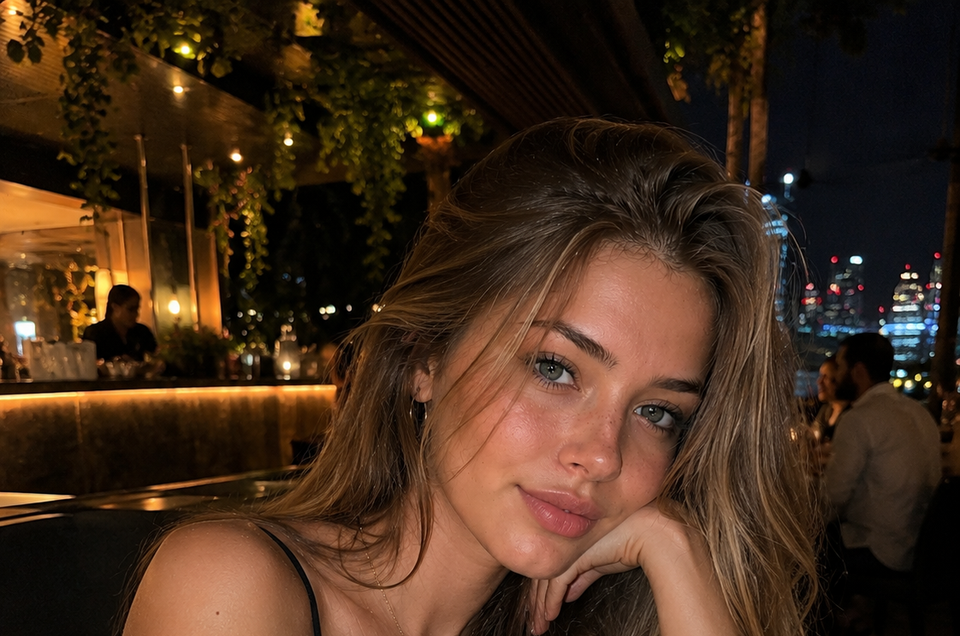
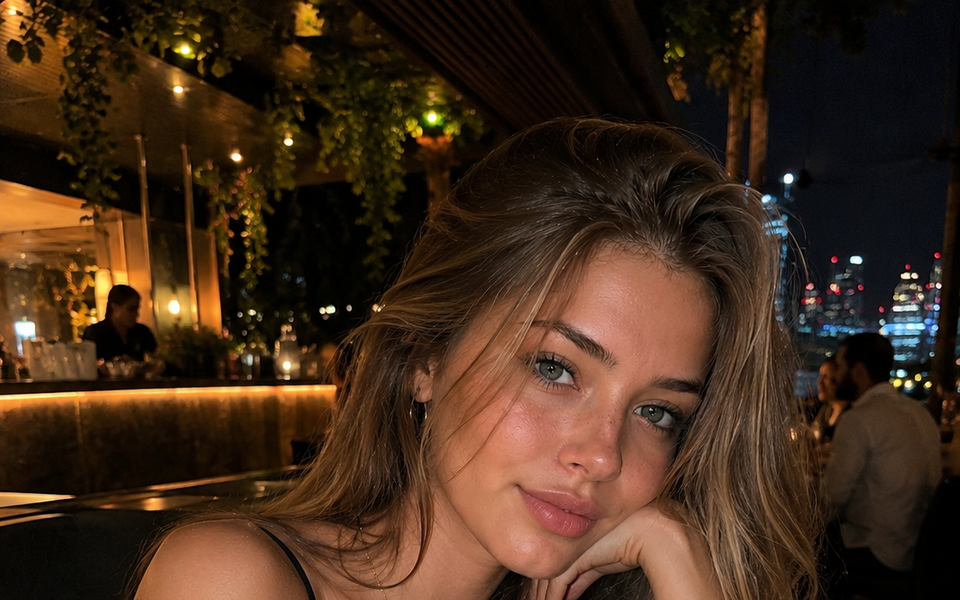
Fix missing semicolon in dev_flags (broke iOS build) + crop daisy neck-up (build +83)
CRITICAL: kBuildTag lost its terminating semicolon in the +80 commit, so
b80/b81/b82 all failed the Dart kernel_snapshot with 'Expected ; after this'
— the iOS archive never compiled. Restored the semicolon.

Also re-cropped daisy from the full-res original at 0.50 (her face sits low,
leaning on her hand, so 0.40 clipped her chin) — strap + bare shoulder gone,
whole face kept. Completes the neck-up pass on the Practice grid (1.1.4).

Claude-Session: https://claude.ai/code/session_01Rt6Sb12eRmDG19zpDRtg6f

diff --git a/lib/config/dev_flags.dart b/lib/config/dev_flags.dart
@@ -85,4 +85,4 @@ const kForceOnboarding = false;
 /// tell which build is actually installed on-device (TestFlight lag has
 /// repeatedly made us debug a stale build). Bump this with every pubspec
 /// build-number bump.
-const kBuildTag = 'b82-crop'
+const kBuildTag = 'b83-crop-fix';
